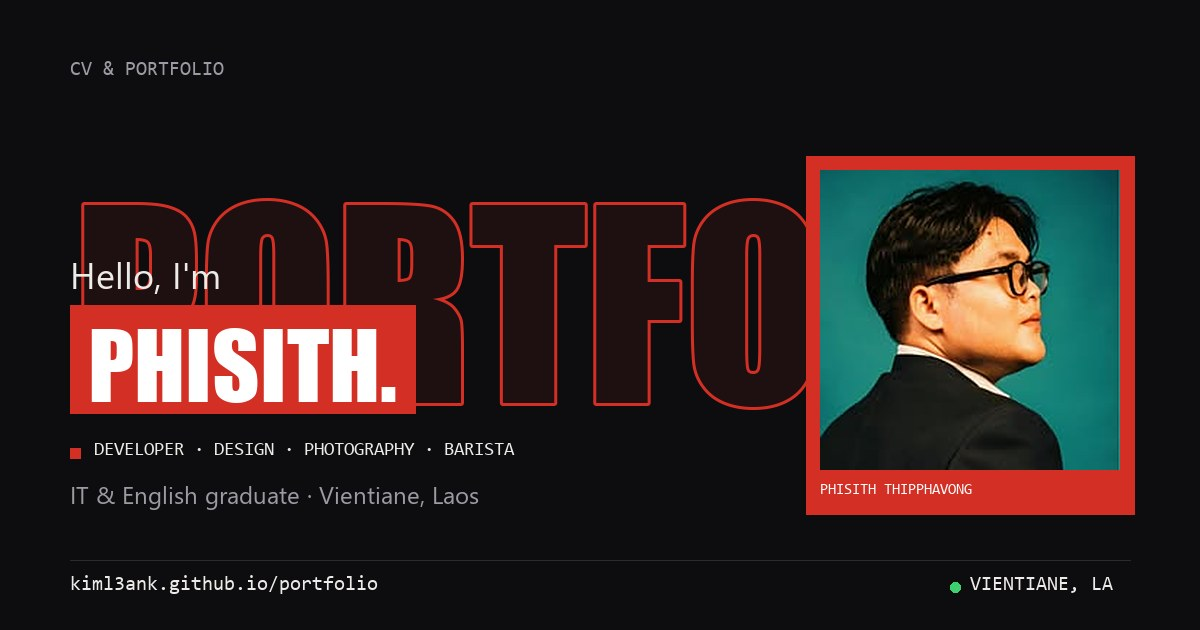
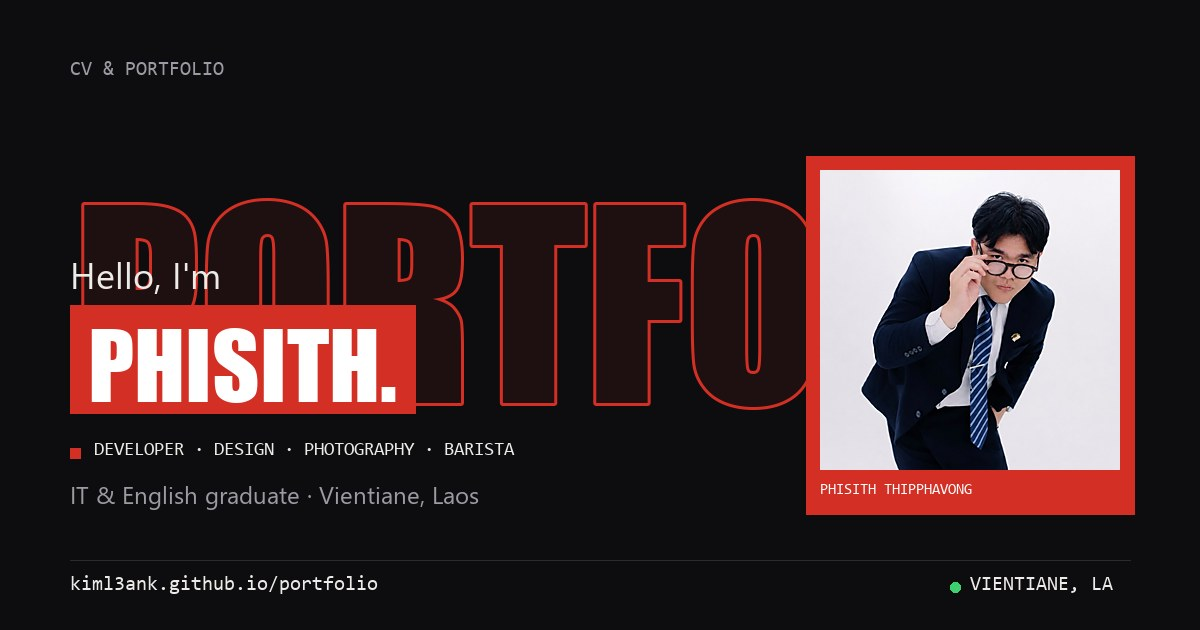
Switch back to the suit portrait
Restores the 1010px photo and the larger square frame; the link-preview
image uses it too.

Claude-Session: https://claude.ai/code/session_015YrJexLdv279Y8m9RNGwFw

Changed region(s): [[0.6783, 0.2714, 0.9558, 0.754]]

diff --git a/index.html b/index.html
@@ -22,10 +22,10 @@
 <link rel="preconnect" href="https://fonts.googleapis.com">
 <link rel="preconnect" href="https://fonts.gstatic.com" crossorigin>
 <link href="https://fonts.googleapis.com/css2?family=Anton&family=Instrument+Serif:ital@1&family=Inter:wght@400;500;600&family=Space+Mono:wght@400;700&display=swap" rel="stylesheet">
-<link rel="stylesheet" href="css/style.css?v=4">
-<link rel="stylesheet" href="css/pages.css?v=4">
-<link rel="stylesheet" href="css/icons.css?v=4">
-<link rel="stylesheet" href="css/build-animation.css?v=4">
+<link rel="stylesheet" href="css/style.css?v=5">
+<link rel="stylesheet" href="css/pages.css?v=5">
+<link rel="stylesheet" href="css/icons.css?v=5">
+<link rel="stylesheet" href="css/build-animation.css?v=5">
 </head>
 <body>
 <a class="skip" href="#about">Skip to content</a>
@@ -80,7 +80,7 @@
       <div class="photo">
         <!-- Portrait: images/me.jpg. With JavaScript on, the 5 strips become slices of this photo and slide in to assemble it. -->
         <div class="photo-frame">
-          <img src="images/me.jpg" alt="Portrait of Phisith Thipphavong" width="206" height="206">
+          <img src="images/me.jpg" alt="Portrait of Phisith Thipphavong" width="1010" height="1010">
           <div class="strip" style="top:0%;transition-delay:0s"></div>
           <div class="strip" style="top:20%;transition-delay:.07s"></div>
           <div class="strip" style="top:40%;transition-delay:.14s"></div>
@@ -332,7 +332,7 @@
 
 <div class="toast" id="toast" role="status" aria-live="polite"></div>
 
-<script src="js/content.js?v=4" defer></script>
-<script src="js/main.js?v=4" defer></script>
+<script src="js/content.js?v=5" defer></script>
+<script src="js/main.js?v=5" defer></script>
 </body>
 </html>

diff --git a/photography.html b/photography.html
@@ -22,10 +22,10 @@
 <link rel="preconnect" href="https://fonts.googleapis.com">
 <link rel="preconnect" href="https://fonts.gstatic.com" crossorigin>
 <link href="https://fonts.googleapis.com/css2?family=Anton&family=Instrument+Serif:ital@1&family=Inter:wght@400;500;600&family=Space+Mono:wght@400;700&display=swap" rel="stylesheet">
-<link rel="stylesheet" href="css/style.css?v=4">
-<link rel="stylesheet" href="css/pages.css?v=4">
-<link rel="stylesheet" href="css/icons.css?v=4">
-<link rel="stylesheet" href="css/build-animation.css?v=4">
+<link rel="stylesheet" href="css/style.css?v=5">
+<link rel="stylesheet" href="css/pages.css?v=5">
+<link rel="stylesheet" href="css/icons.css?v=5">
+<link rel="stylesheet" href="css/build-animation.css?v=5">
 </head>
 <body data-page="photography">
 <a class="skip" href="#main-content">Skip to content</a>
@@ -154,7 +154,7 @@
 
 <div class="toast" id="toast" role="status" aria-live="polite"></div>
 
-<script src="js/content.js?v=4" defer></script>
-<script src="js/main.js?v=4" defer></script>
+<script src="js/content.js?v=5" defer></script>
+<script src="js/main.js?v=5" defer></script>
 </body>
 </html>

diff --git a/barista.html b/barista.html
@@ -22,10 +22,10 @@
 <link rel="preconnect" href="https://fonts.googleapis.com">
 <link rel="preconnect" href="https://fonts.gstatic.com" crossorigin>
 <link href="https://fonts.googleapis.com/css2?family=Anton&family=Instrument+Serif:ital@1&family=Inter:wght@400;500;600&family=Space+Mono:wght@400;700&display=swap" rel="stylesheet">
-<link rel="stylesheet" href="css/style.css?v=4">
-<link rel="stylesheet" href="css/pages.css?v=4">
-<link rel="stylesheet" href="css/icons.css?v=4">
-<link rel="stylesheet" href="css/build-animation.css?v=4">
+<link rel="stylesheet" href="css/style.css?v=5">
+<link rel="stylesheet" href="css/pages.css?v=5">
+<link rel="stylesheet" href="css/icons.css?v=5">
+<link rel="stylesheet" href="css/build-animation.css?v=5">
 </head>
 <body data-page="barista">
 <a class="skip" href="#main-content">Skip to content</a>
@@ -160,7 +160,7 @@
 
 <div class="toast" id="toast" role="status" aria-live="polite"></div>
 
-<script src="js/content.js?v=4" defer></script>
-<script src="js/main.js?v=4" defer></script>
+<script src="js/content.js?v=5" defer></script>
+<script src="js/main.js?v=5" defer></script>
 </body>
 </html>

diff --git a/graphic.html b/graphic.html
@@ -22,10 +22,10 @@
 <link rel="preconnect" href="https://fonts.googleapis.com">
 <link rel="preconnect" href="https://fonts.gstatic.com" crossorigin>
 <link href="https://fonts.googleapis.com/css2?family=Anton&family=Instrument+Serif:ital@1&family=Inter:wght@400;500;600&family=Space+Mono:wght@400;700&display=swap" rel="stylesheet">
-<link rel="stylesheet" href="css/style.css?v=4">
-<link rel="stylesheet" href="css/pages.css?v=4">
-<link rel="stylesheet" href="css/icons.css?v=4">
-<link rel="stylesheet" href="css/build-animation.css?v=4">
+<link rel="stylesheet" href="css/style.css?v=5">
+<link rel="stylesheet" href="css/pages.css?v=5">
+<link rel="stylesheet" href="css/icons.css?v=5">
+<link rel="stylesheet" href="css/build-animation.css?v=5">
 </head>
 <body data-page="graphic">
 <a class="skip" href="#main-content">Skip to content</a>
@@ -156,7 +156,7 @@
 
 <div class="toast" id="toast" role="status" aria-live="polite"></div>
 
-<script src="js/content.js?v=4" defer></script>
-<script src="js/main.js?v=4" defer></script>
+<script src="js/content.js?v=5" defer></script>
+<script src="js/main.js?v=5" defer></script>
 </body>
 </html>

diff --git a/dev.html b/dev.html
@@ -22,10 +22,10 @@
 <link rel="preconnect" href="https://fonts.googleapis.com">
 <link rel="preconnect" href="https://fonts.gstatic.com" crossorigin>
 <link href="https://fonts.googleapis.com/css2?family=Anton&family=Instrument+Serif:ital@1&family=Inter:wght@400;500;600&family=Space+Mono:wght@400;700&display=swap" rel="stylesheet">
-<link rel="stylesheet" href="css/style.css?v=4">
-<link rel="stylesheet" href="css/pages.css?v=4">
-<link rel="stylesheet" href="css/icons.css?v=4">
-<link rel="stylesheet" href="css/build-animation.css?v=4">
+<link rel="stylesheet" href="css/style.css?v=5">
+<link rel="stylesheet" href="css/pages.css?v=5">
+<link rel="stylesheet" href="css/icons.css?v=5">
+<link rel="stylesheet" href="css/build-animation.css?v=5">
 </head>
 <body data-page="dev">
 <a class="skip" href="#main-content">Skip to content</a>
@@ -161,7 +161,7 @@
 
 <div class="toast" id="toast" role="status" aria-live="polite"></div>
 
-<script src="js/content.js?v=4" defer></script>
-<script src="js/main.js?v=4" defer></script>
+<script src="js/content.js?v=5" defer></script>
+<script src="js/main.js?v=5" defer></script>
 </body>
 </html>

diff --git a/css/style.css b/css/style.css
@@ -68,7 +68,7 @@ main{max-width:1200px;margin:0 auto;padding:0 24px 72px;display:flex;flex-direct
 .sketch>i:nth-of-type(1){left:-5px;top:-5px}.sketch>i:nth-of-type(2){right:-5px;top:-5px}
 .sketch>i:nth-of-type(3){left:-5px;bottom:-5px}.sketch>i:nth-of-type(4){right:-5px;bottom:-5px}
 .col-intro{position:relative;flex:1 1 300px;min-width:0;max-width:400px}
-.col-photo{position:relative;flex:0 1 264px;min-width:220px;margin:0 auto}
+.col-photo{position:relative;flex:0 1 300px;min-width:230px;margin:0 auto}
 .col-side{position:relative;flex:1 1 230px;min-width:0;max-width:290px}
 .intro{display:flex;flex-direction:column;gap:16px;transition:opacity .7s ease,transform .8s var(--ease)}
 .hello{margin:0;font-family:var(--serif);font-style:italic;font-size:38px;line-height:1}
